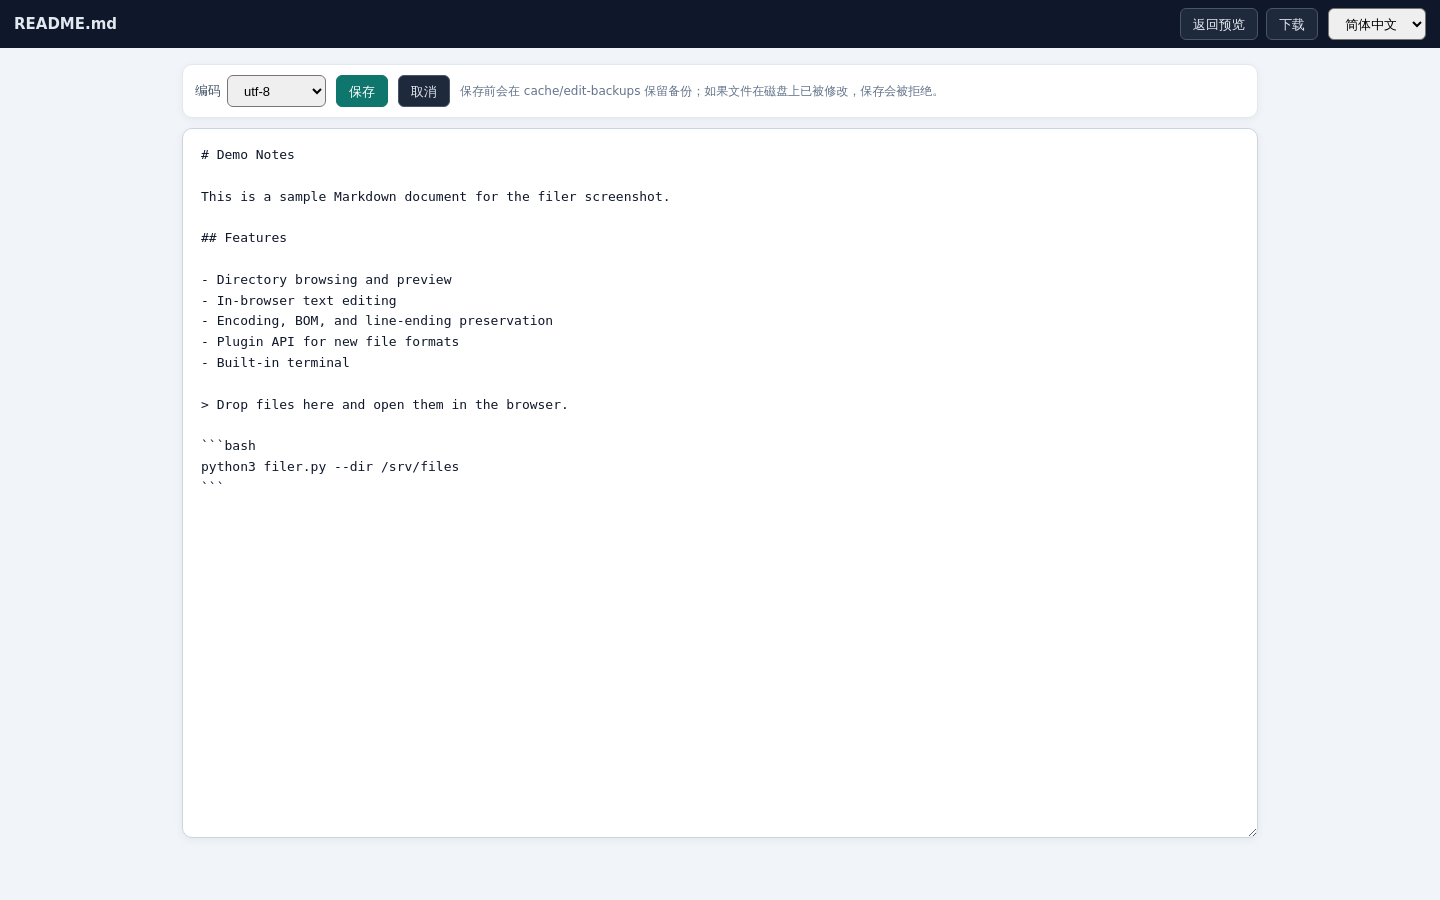
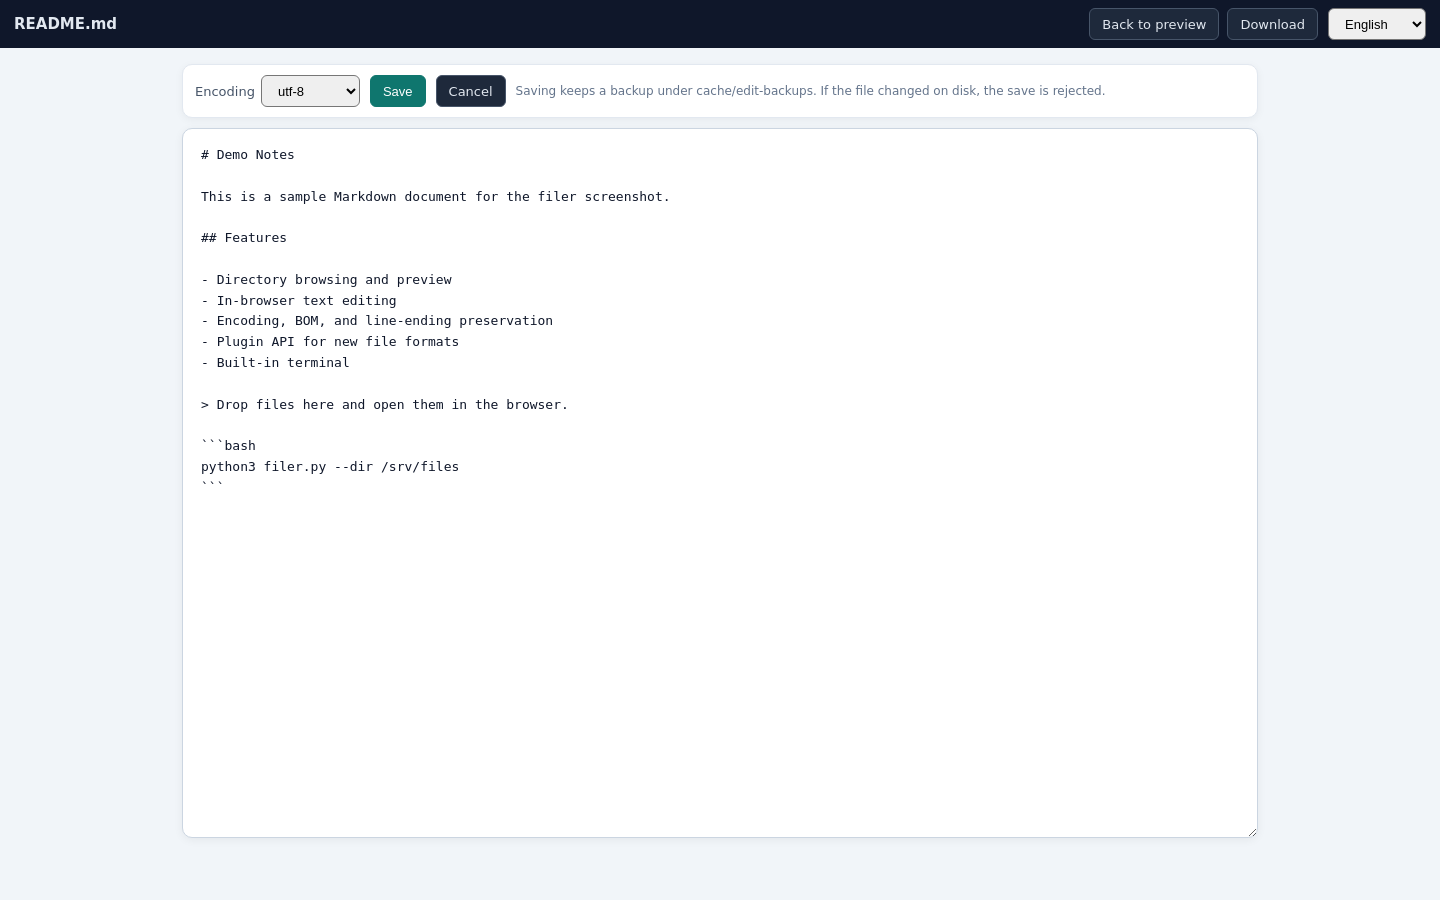
Use English UI screenshots in documentation

diff --git a/CHANGELOG.md b/CHANGELOG.md
@@ -40,7 +40,7 @@ Initial public release.
 - Directory listings now send `Cache-Control: no-store` so mobile browsers do
   not keep an old page without the edit action.
 - Updated README screenshots for the new preview toolbar, text editor, and
-  mobile layout.
+  mobile layout, using an all-English UI.
 - Fixed Markdown preview to resolve relative image and link URLs against the
   document directory; relative images now load through `?raw=1` instead of
   returning a 404.

diff --git a/docs/writing-a-plugin.md b/docs/writing-a-plugin.md
@@ -112,12 +112,12 @@ action. The save goes through the core and creates a backup.
 }
 ```
 
-`plugins/hello-editor/locales/zh-CN.json`:
+`plugins/hello-editor/locales/xx.json` (replace `xx` with your locale code):
 
 ```json
 {
-  "title": "Hello 编辑器",
-  "save": "保存"
+  "title": "Translated title",
+  "save": "Translated save label"
 }
 ```
 
